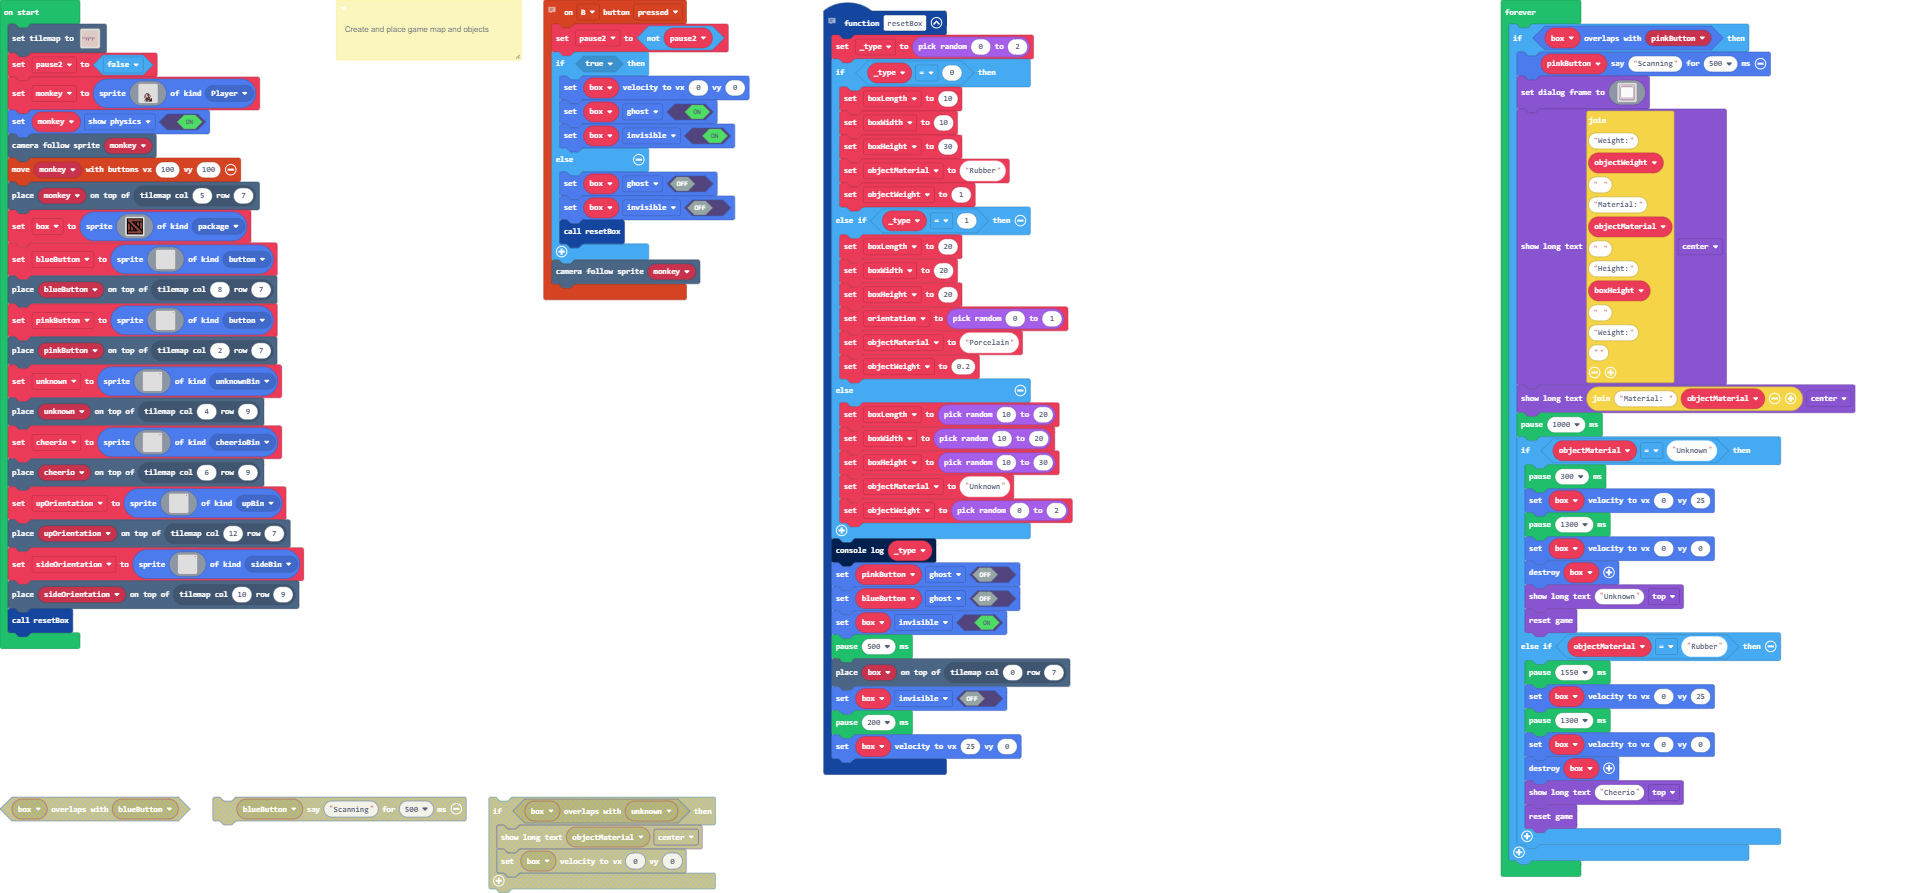
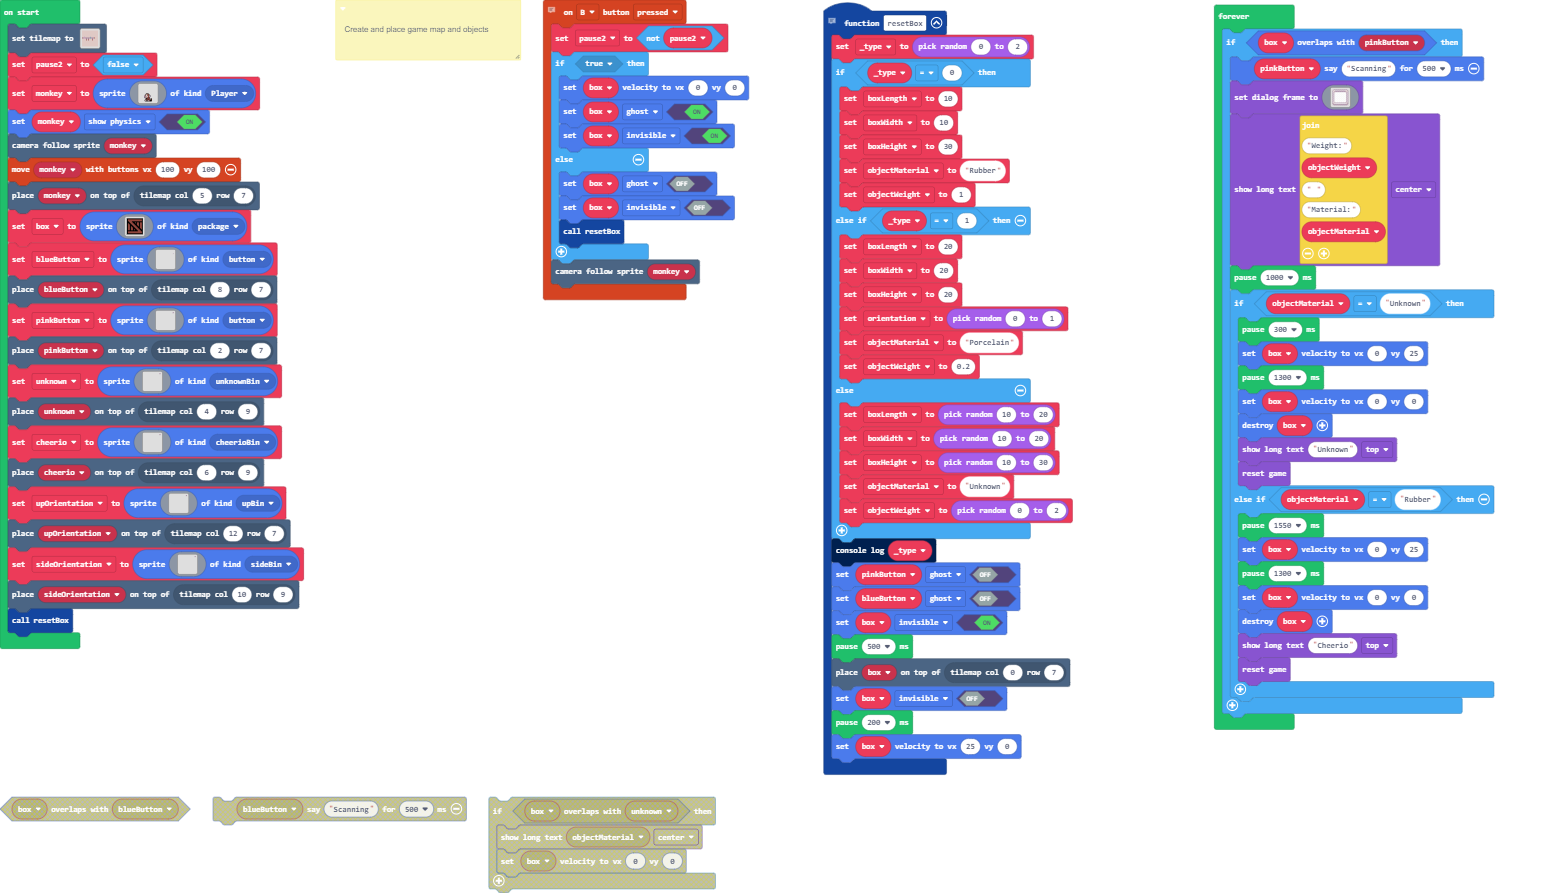
Update main.blocks, main.ts

diff --git a/main.ts b/main.ts
@@ -280,8 +280,7 @@ forever(function () {
             .bbbbbbbbbbbbbbbbbbbbbb.
             ..bbbbbbbbbbbbbbbbbbbb..
             `)
-        game.showLongText("Weight:" + objectWeight + " " + "Material:" + objectMaterial + " " + "Height:" + boxHeight + " " + "Weight:" + "", DialogLayout.Center)
-        game.showLongText("Material: " + objectMaterial, DialogLayout.Center)
+        game.showLongText("Weight:" + objectWeight + " " + "Material:" + objectMaterial, DialogLayout.Center)
         pause(1000)
         if (objectMaterial == "Unknown") {
             pause(300)
